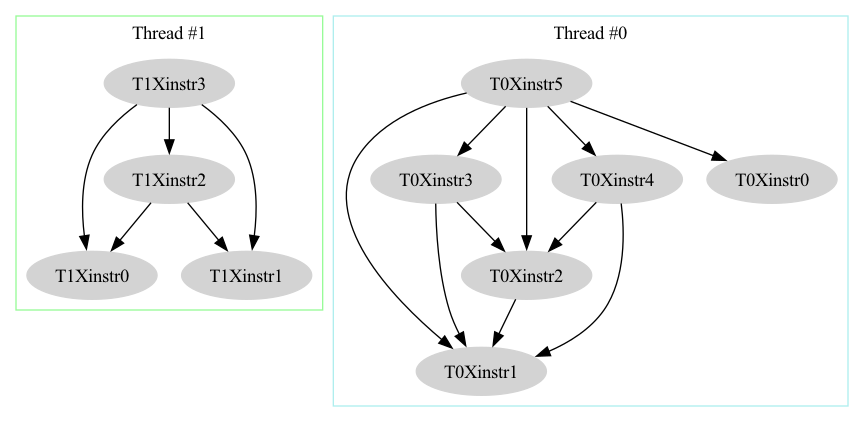
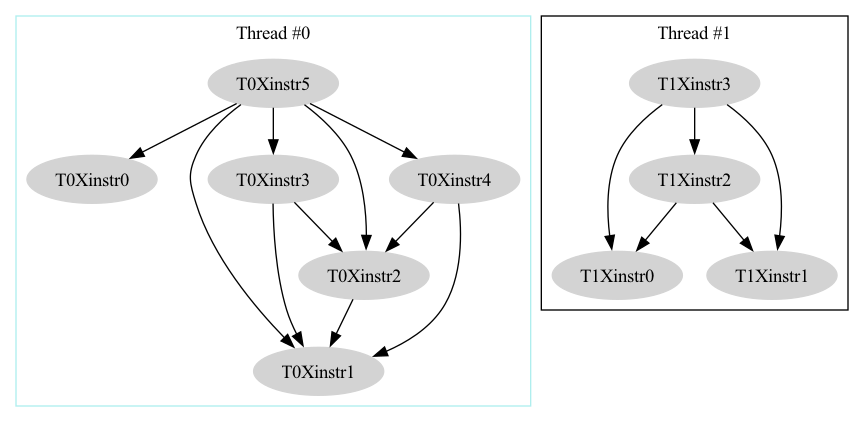
я устал

diff --git a/src/thread_subsystem.rs b/src/thread_subsystem.rs
@@ -7,6 +7,7 @@ use std::collections::HashMap;
 use std::fs::File;
 use std::io::prelude::*;
 use std::rc::Rc;
+use std::process::Command;
 
 pub struct Registers {
     pub registers: HashMap<usize, Memory>,
@@ -47,6 +48,8 @@ pub struct TSO {
     pub dependency_graph: DependencyGraph,
     pub registers: Registers,
     pub is_pso: bool,
+    pub remove_queue: Vec<Rc<RefCell<InstructionNode>>>,
+    pub label_map: HashMap<String, bool>,
 }
 
 impl TSO {
@@ -67,6 +70,8 @@ impl TSO {
             dependency_graph,
             registers,
             is_pso,
+            remove_queue: Vec::new(),
+            label_map: HashMap::new(),
         }
     }
 
@@ -79,7 +84,28 @@ impl TSO {
         let mut file = File::create(filename).expect("Unable to create file");
         file.write_all(file_content.as_bytes())
             .expect("Unable to write data");
+
+        let _ = Command::new("dot")
+            .arg("-Tpng")
+            .arg(filename)
+            .arg("-o")
+            .arg(filename.replace(".dot", ".png"))
+            .output();
     }
+
+    pub fn prepare_for_delete(&mut self, node: Rc<RefCell<InstructionNode>>) {
+        let label = match node.borrow_mut().instruction.clone() {
+            NodeType::Instruction(labeled_instruction) => labeled_instruction.label.clone(),
+            NodeType::Propagate(Propagate {
+                associated_write, ..
+            }) => associated_write.label.clone(),
+        };
+        self.remove_queue.push(node);
+        if let Some(label) = label {
+            self.label_map.insert(label, true);
+        }
+    }
+
 
     pub fn exec_instruction(&mut self, instruction_node: Rc<RefCell<InstructionNode>>) {
         let instruction: NodeType = instruction_node.borrow_mut().instruction.clone();
@@ -92,6 +118,7 @@ impl TSO {
         match instruction.clone() {
             NodeType::Propagate(Propagate { .. }) => {
                 self.memory_subsystem.propagate(thread_id);
+                self.prepare_for_delete(instruction_node.clone());
                 self.dependency_graph
                     .remove_node(instruction_node.clone(), None, self.is_pso);
             }
@@ -101,6 +128,7 @@ impl TSO {
             {
                 Instruction::AssignConst(Reference::Register(reg), value) => {
                     self.registers.store(reg.as_str(), value, thread_id);
+                    self.prepare_for_delete(instruction_node.clone());
                     self.dependency_graph
                         .remove_node(instruction_node.clone(), None, self.is_pso);
                 }
@@ -115,12 +143,14 @@ impl TSO {
 
                     let result = operation.apply(value1, value2);
                     self.registers.store(reg.as_str(), result, thread_id);
+                    self.prepare_for_delete(instruction_node.clone());
                     self.dependency_graph
                         .remove_node(instruction_node.clone(), None, self.is_pso);
                 }
                 Instruction::Load(_, Reference::Memory(mem), Reference::Register(reg)) => {
                     let value = self.memory_subsystem.load(mem.as_str(), thread_id);
                     self.registers.store(reg.as_str(), value, thread_id);
+                    self.prepare_for_delete(instruction_node.clone());
                     self.dependency_graph
                         .remove_node(instruction_node.clone(), None, self.is_pso);
                 }
@@ -131,6 +161,7 @@ impl TSO {
                         labeled_instruction.instruction.clone()
                     {
                         let prop = (labeled_instruction.clone(), mem_ref.clone());
+                        self.prepare_for_delete(instruction_node.clone());
                         self.dependency_graph.remove_node(
                             instruction_node.clone(),
                             Some(prop),
@@ -160,6 +191,7 @@ impl TSO {
                             labeled_instruction.instruction.clone()
                         {
                             let prop = (labeled_instruction.clone(), mem_ref.clone());
+                            self.prepare_for_delete(instruction_node.clone());
                             self.dependency_graph.remove_node(
                                 instruction_node.clone(),
                                 Some(prop),
@@ -196,6 +228,7 @@ impl TSO {
                         labeled_instruction.instruction.clone()
                     {
                         let prop = (labeled_instruction.clone(), mem_ref.clone());
+                        self.prepare_for_delete(instruction_node.clone());
                         self.dependency_graph.remove_node(
                             instruction_node.clone(),
                             Some(prop),
@@ -206,12 +239,13 @@ impl TSO {
                     }
                 }
                 Instruction::Fence(_) => {
+                    self.prepare_for_delete(instruction_node.clone());
                     self.dependency_graph
                         .remove_node(instruction_node.clone(), None, self.is_pso);
                 },
                 // Instruction::ConditionalJump(Reference::Register(reg), label) => {
                 //     let value = self.registers.load(reg.as_str(), thread_id);
-                //
+                    
                 // },
                 _ => {
                     panic!("Instruction not supported");

diff --git a/src/dependency_graph.rs b/src/dependency_graph.rs
@@ -112,6 +112,7 @@ impl InstructionNode {
         {
             return;
         }
+        // println!("Adding dependency from {} to {}", from.borrow().instruction.id(), to.borrow().instruction.id());
         from.borrow_mut().depends_on.push(to.clone());
         to.borrow_mut().depends_on_me.push(from.clone());
     }
@@ -313,6 +314,7 @@ impl DependencyGraph {
         self.nodes.retain(|n| !Rc::ptr_eq(n, &node));
 
         if let Some((instr, to_loc)) = propagate {
+            // println!("Propagating {:?}", instr);
             let propagate_node = self.add_propagate(instr.clone(), to_loc.clone());
 
             // Add dependencies from fences
@@ -344,9 +346,9 @@ impl DependencyGraph {
                 }) = other_node
                 {
                     if pso {
-                        (*other_loc) == to_loc && labeled_instr.thread_id == instr.thread_id
+                        (*other_loc) == to_loc && labeled_instr.thread_id == instr.thread_id && labeled_instr.line_index != instr.line_index
                     } else {
-                        labeled_instr.thread_id == instr.thread_id
+                        labeled_instr.thread_id == instr.thread_id && labeled_instr.line_index != instr.line_index
                     }
                 } else {
                     false
@@ -355,10 +357,6 @@ impl DependencyGraph {
 
             for depended_node in depended_nodes {
                 InstructionNode::add_dependency(propagate_node.clone(), depended_node.clone());
-                // propagate_node
-                //     .borrow_mut()
-                //     .depends_on
-                //     .push(depended_node.clone());
             }
         }
     }
@@ -387,7 +385,6 @@ impl DependencyGraph {
             }
 
             for thread_id in threads {
-                // println!("Thread #{}", thread_id);
                 let mut cluster = digraph.cluster();
                 cluster.set_color(get_color());
                 cluster
@@ -398,8 +395,8 @@ impl DependencyGraph {
                 for node in &self.nodes {
                     if node.borrow().instruction.thread_id() == thread_id {
                         let node_label = node.borrow().instruction.to_dot();
+                        cluster.node_named(node_label.as_str());
                         for dependency in &node.borrow().depends_on {
-                            // println!("{} -> {}", node_label, dependency.borrow().instruction.to_dot());
                             let dependency_label = dependency.borrow().instruction.to_dot();
                             cluster.edge(node_label.as_str(), dependency_label.as_str());
                         }
@@ -407,43 +404,6 @@ impl DependencyGraph {
                 }
             }
         }
-
-        // {
-        //     let mut writer = DotWriter::from(&mut output_bytes);
-        //     writer.set_pretty_print(false);
-        //     let mut digraph = writer.digraph();
-        //     {
-        //         let mut cluster = digraph.cluster();
-        //         cluster.set_style(Style::Filled);
-        //         cluster.set_color(Color::LightGrey);
-        //         cluster
-        //             .node_attributes()
-        //             .set_style(Style::Filled)
-        //             .set_color(Color::White);
-        //         cluster.edge("a0", "a1").edge("a2").edge("a3");
-        //         cluster.set_label("process #1");
-        //         // cluster goes out of scope here to write closing bracket
-        //     }
-        //     {
-        //         let mut cluster = digraph.cluster();
-        //         cluster.node_attributes().set_style(Style::Filled);
-        //         cluster.edge("b0", "b1").edge("b2").edge("b3");
-        //         cluster.set_label("process #2");
-        //         cluster.set_color(Color::Blue);
-        //         // cluster goes out of scope here to write closing bracket
-        //     }
-        //     digraph.edge("start", "a0");
-        //     digraph.edge("start", "b0");
-        //     digraph.edge("a1", "b3");
-        //     digraph.edge("b2", "a3");
-        //     digraph.edge("a3", "a0");
-        //     digraph.edge("a3", "end");
-        //     digraph.edge("b3", "end");
-        //     digraph.node_named("start").set_shape(Shape::Mdiamond);
-        //     digraph.node_named("end").set_shape(Shape::Msquare);
-        //     // digraph goes out of scope here to write closing bracket
-        //     // then writer goes out of scope here to free up output_bytes for reading
-        // }
         String::from_utf8(output_bytes).unwrap()
     }
 }

diff --git a/src/instruction.rs b/src/instruction.rs
@@ -181,35 +181,6 @@ impl Instruction {
             _ => false,
         }
     }
-
-    pub fn to_dot(&self) -> String {
-        match self {
-            Instruction::AssignConst(dest, value) => {
-                format!("R{}e{}", dest, value)
-            }
-            Instruction::AssignOperation(dest, lhs, op, rhs) => {
-                format!("R{}e{}{}{}", dest, lhs, op, rhs)
-            }
-            Instruction::ConditionalJump(cond, label) => {
-                format!("if {} goto {}", cond, label)
-            }
-            Instruction::Load(mode, dest, addr) => {
-                format!("{} load {} {}", dest, mode, addr)
-            }
-            Instruction::Store(mode, addr, value) => {
-                format!("store {} {} {}", mode, addr, value)
-            }
-            Instruction::Cas(dest, mode, addr, old, new) => {
-                format!("cas {} {} {} {} {}", dest, mode, addr, old, new)
-            }
-            Instruction::Fai(dest, mode, addr, value) => {
-                format!("fai {} {} {} {}", dest, mode, addr, value)
-            }
-            Instruction::Fence(mode) => {
-                format!("fence {}", mode)
-            }
-        }
-    }
 }
 
 impl Display for Instruction {
